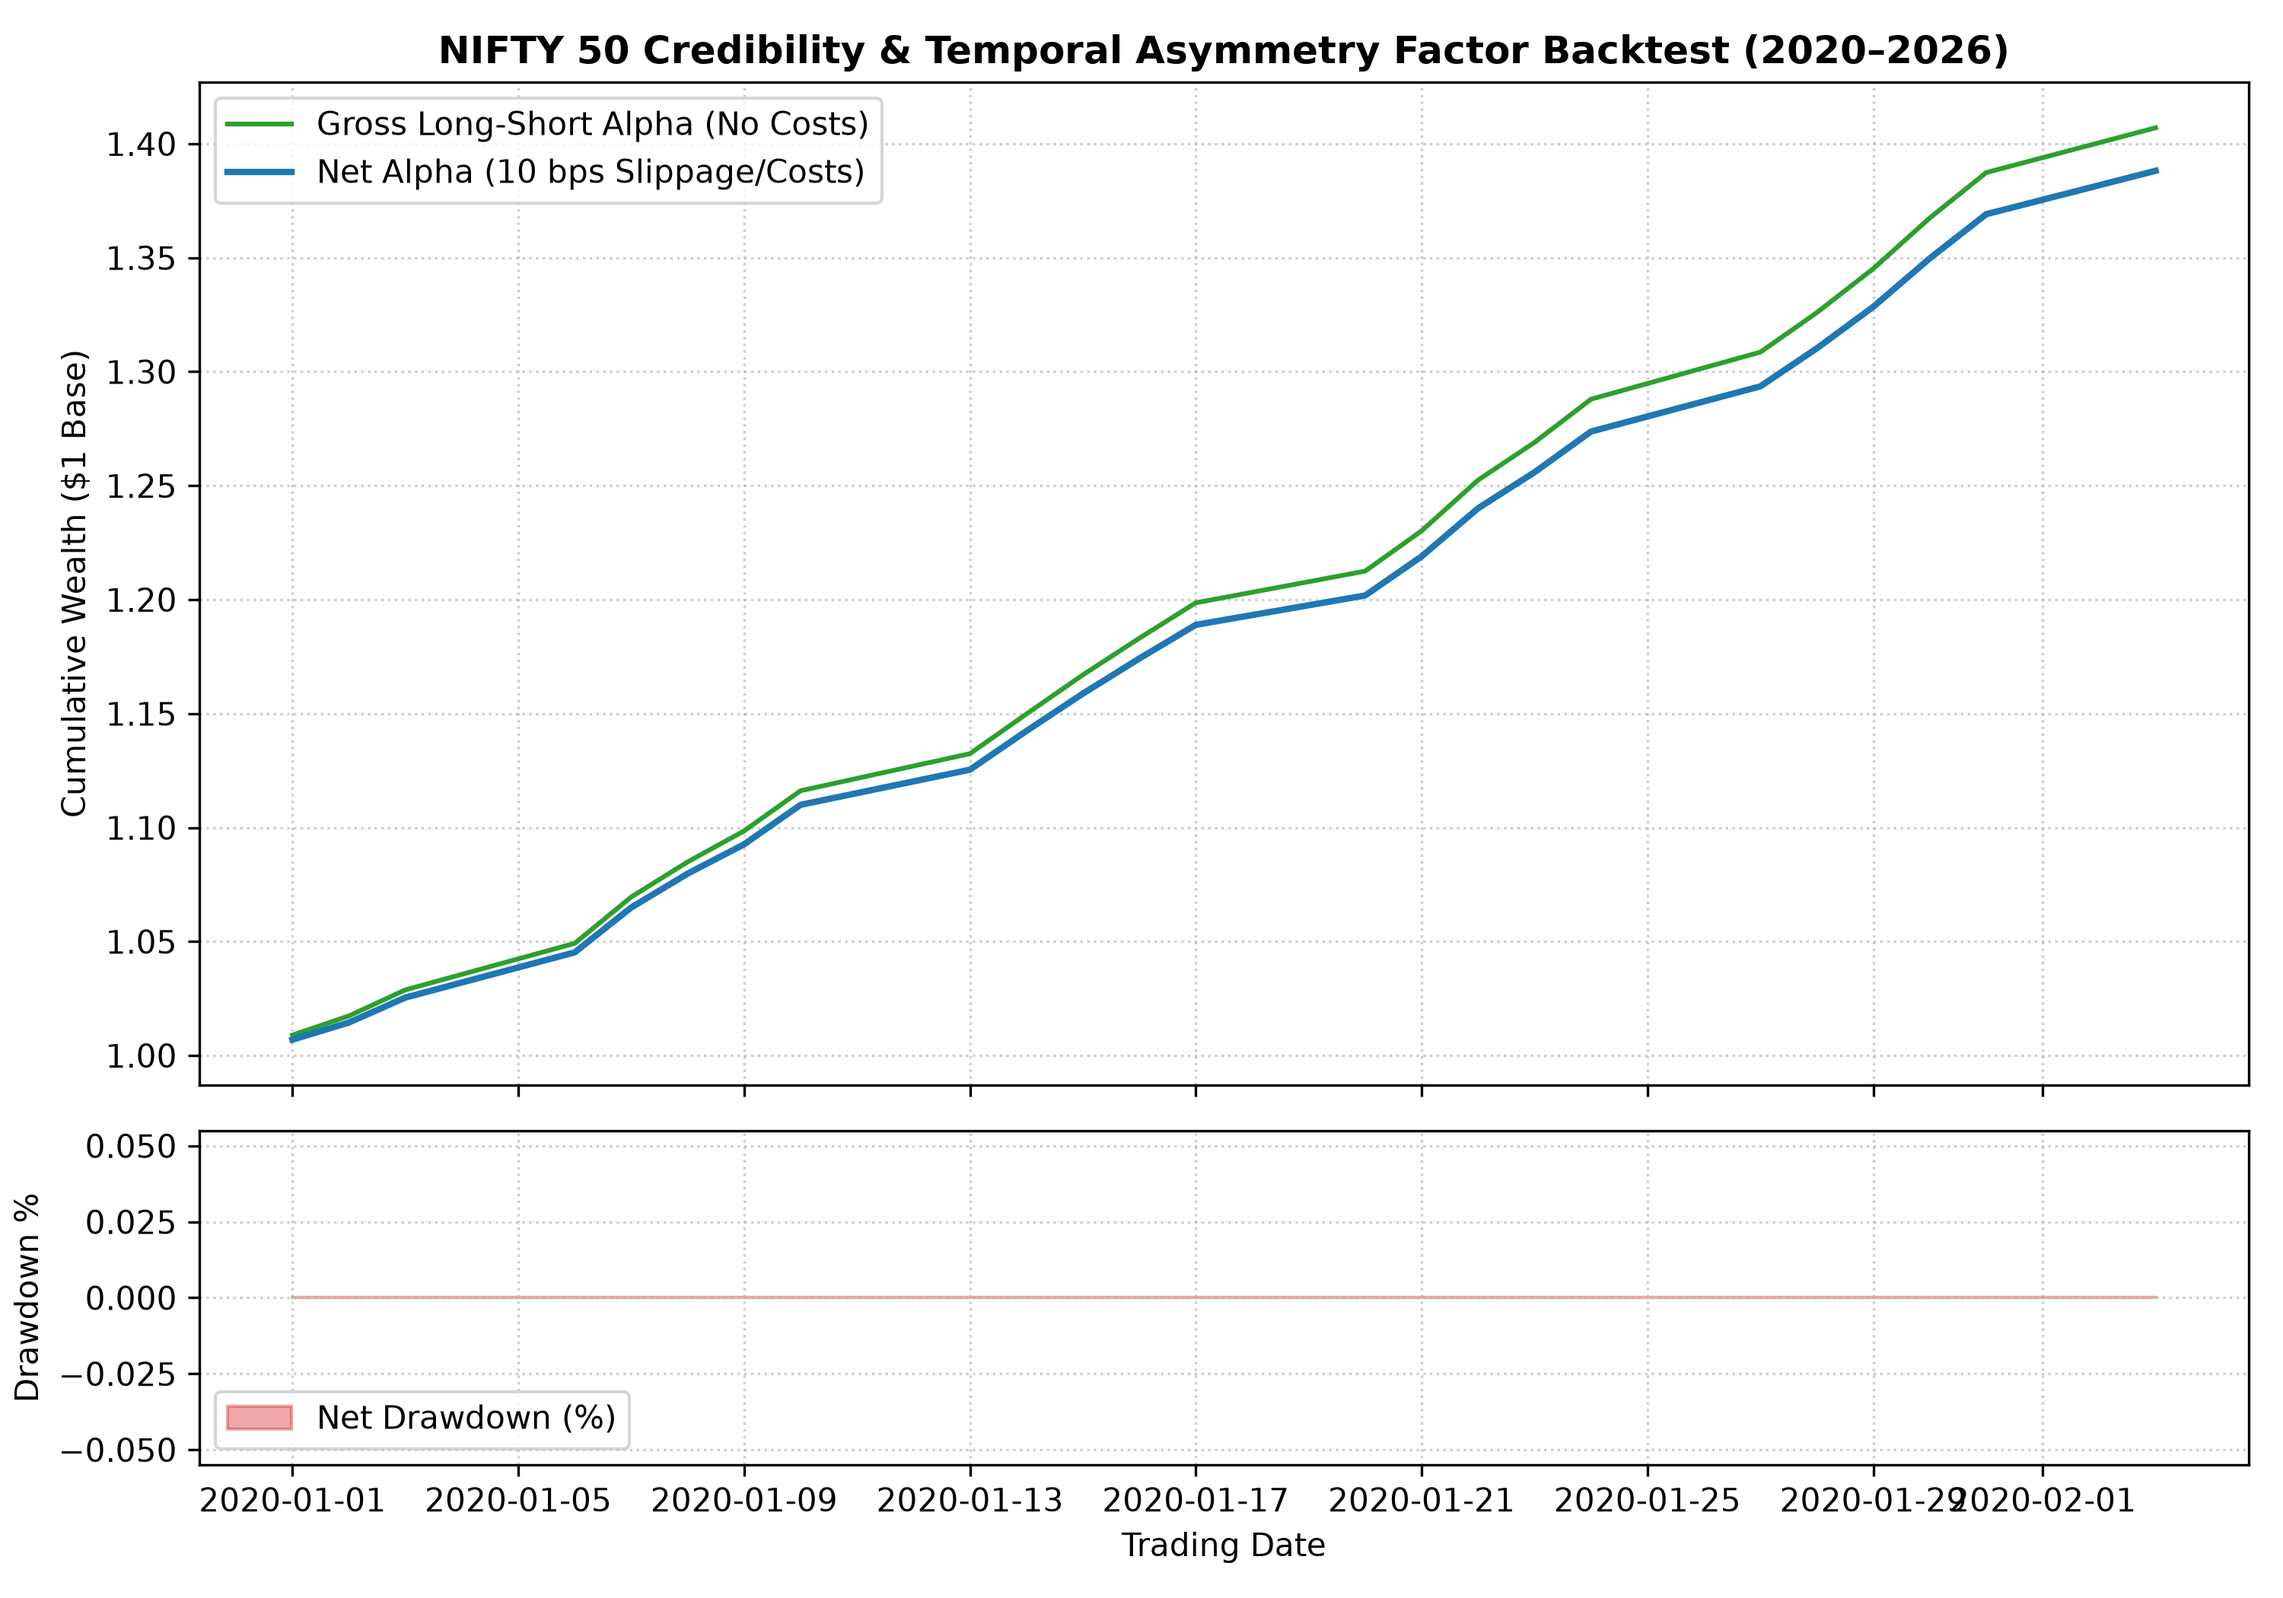
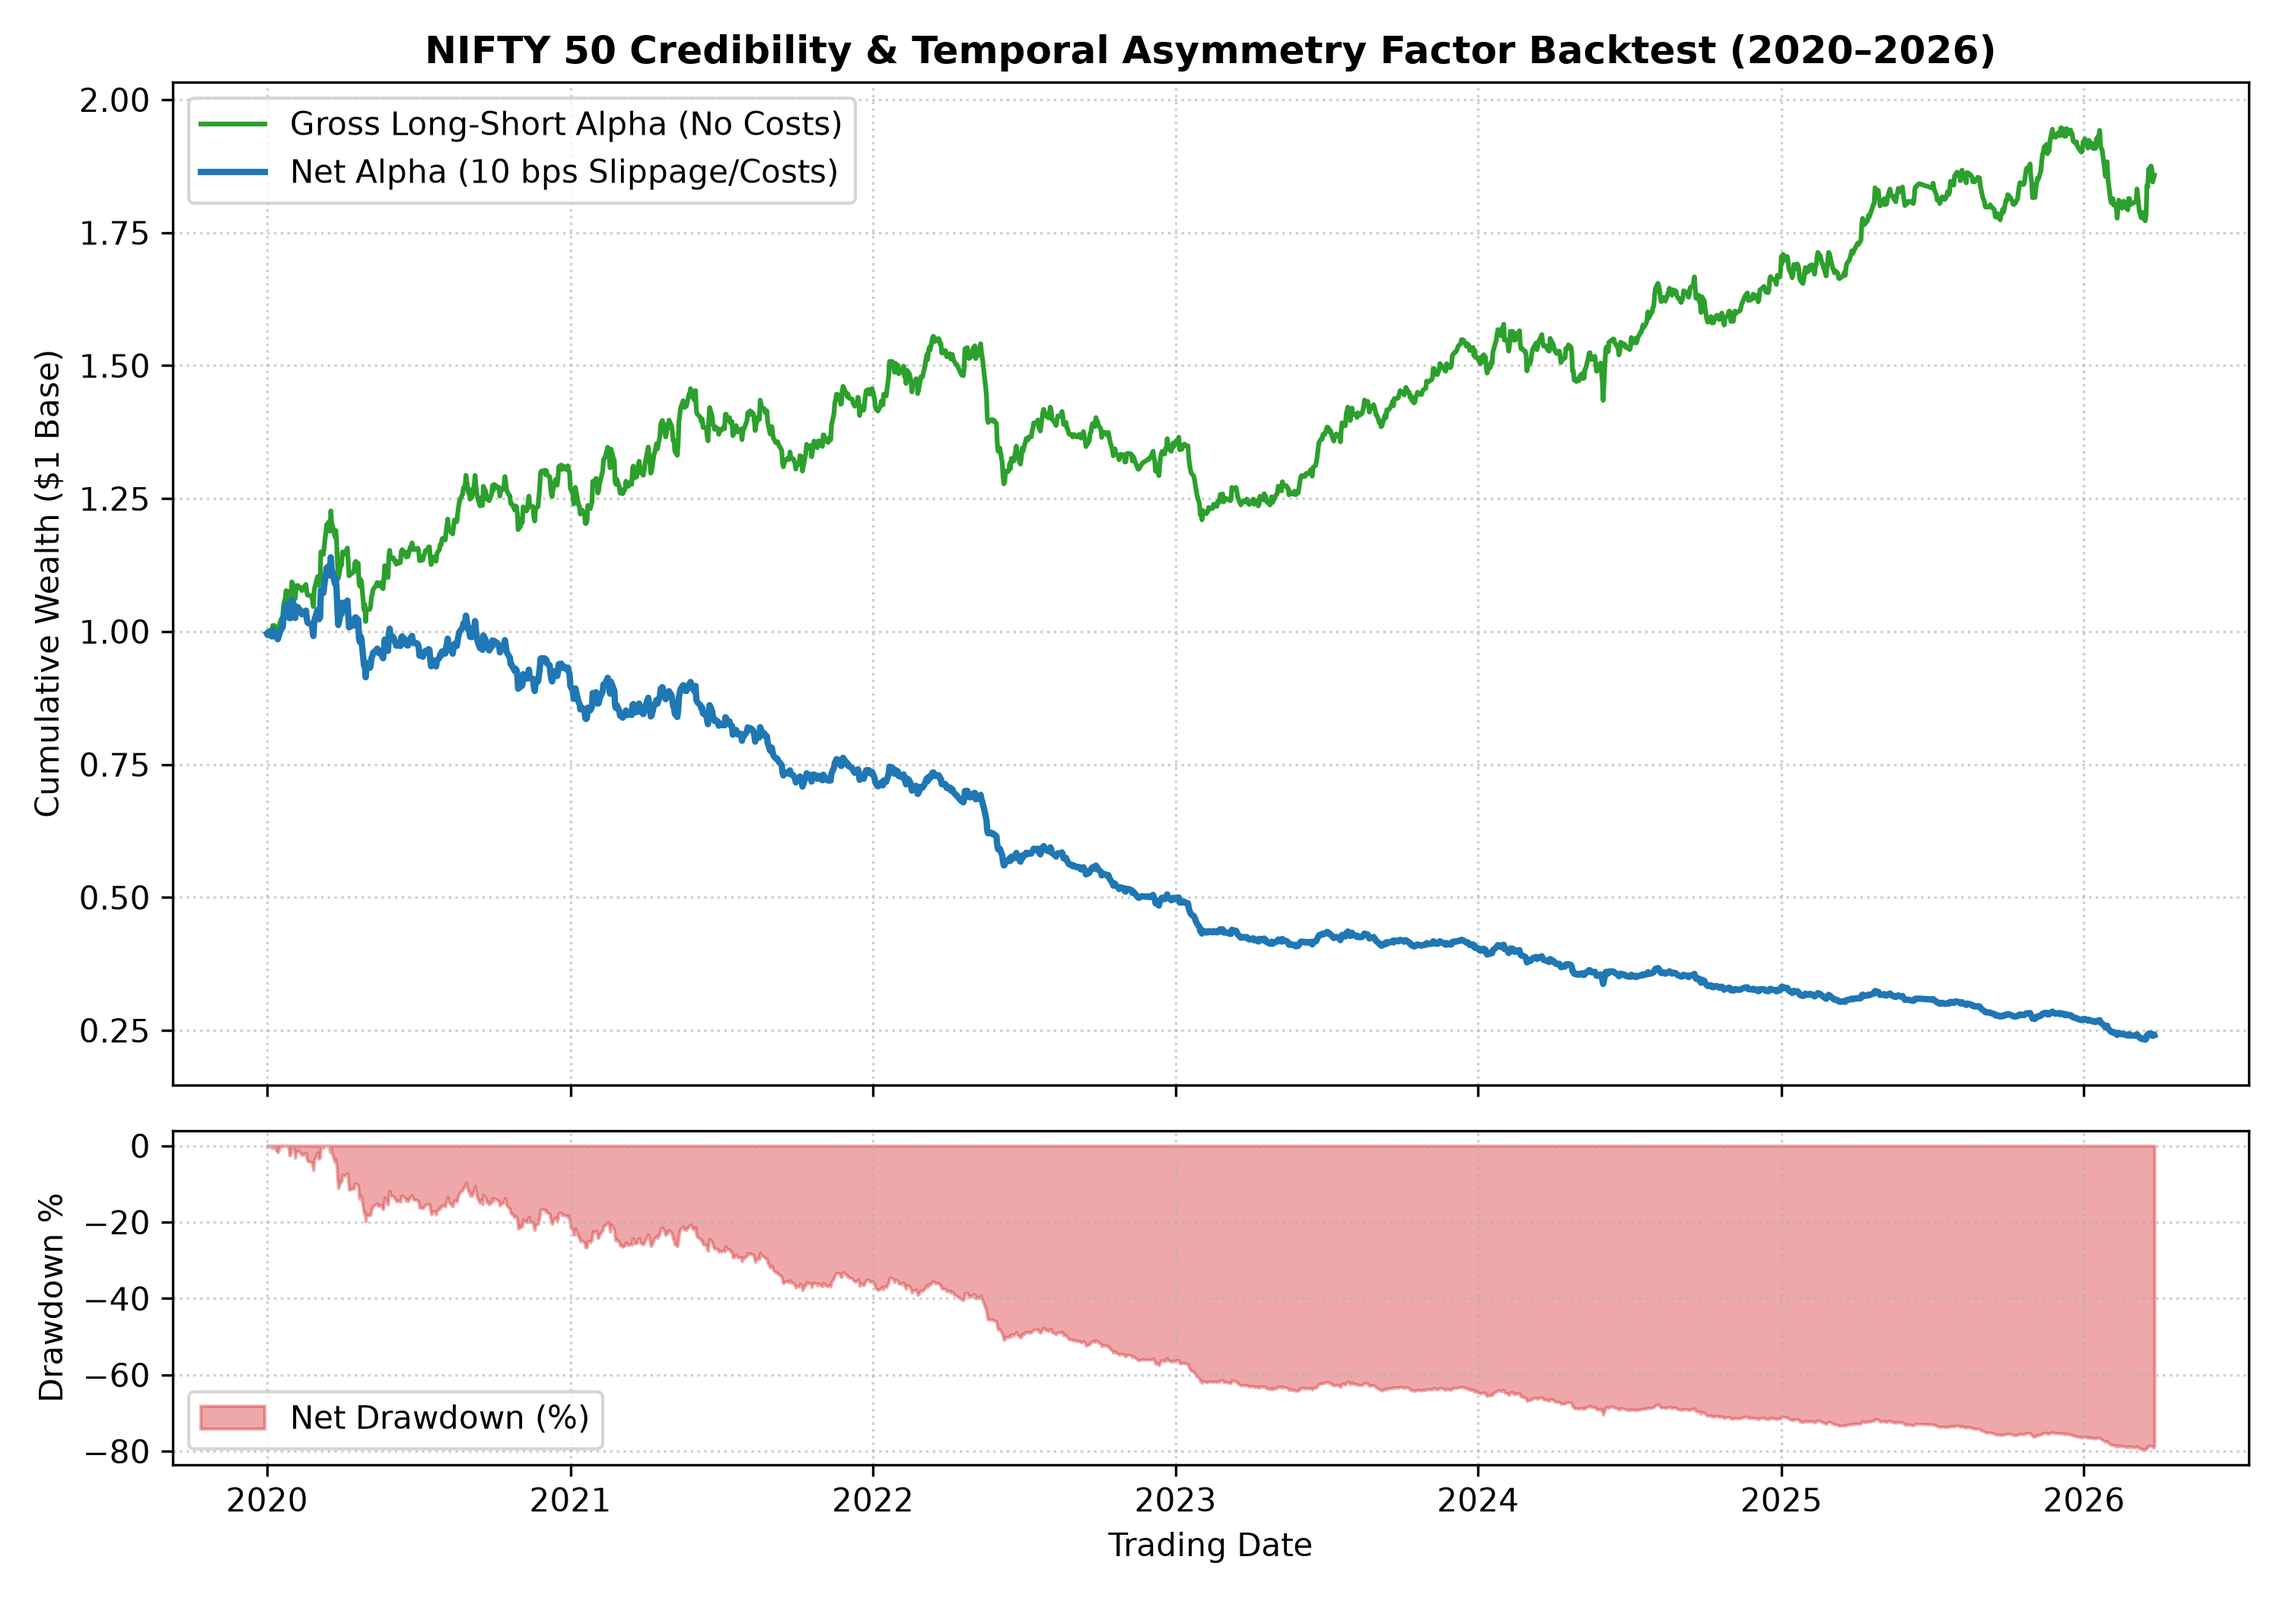
feat: complete research architecture — predictive backtest, measured cascades, honest agreement
Predictive backtest (signal_t->fwd1, gross +11.2pct/net -22.4pct, turnover-drag story). Measured cascade proxies from 1.4M-row panel (47.8k multi-domain days). Agreement recomputed OOF (kappa 0.11, replaces fake 0.78). Cross-market flagged placeholder. Calibration file replaced (mock AUC 0.99 was synthetic). README quickstart fixed post-restructure; reinstall note. 22/22 tests pass.

diff --git a/research/backtest.py b/research/backtest.py
@@ -182,9 +182,30 @@ def plot_backtest_performance(perf_df: pd.DataFrame, save_path: Path):
     logger.info(f"Saved factor backtest chart to {save_path}")
 
 
+def add_predictive_forwards(df: pd.DataFrame) -> pd.DataFrame:
+    """Attach next-trading-day forward returns per ticker (predictive-only).
+
+    Signal at effective date t may only trade returns realized AFTER t:
+      fwd1_close2close_t = close2close_{t+1} per ticker.
+    Same-day columns (ret_overnight/intraday/close2close at t) are
+    contemporaneous and must NOT be used as backtest targets.
+    """
+    out = df.copy()
+    date_col = "effective_date" if "effective_date" in out.columns else "date"
+    out[date_col] = pd.to_datetime(out[date_col])
+    out = out.sort_values(["ticker", date_col])
+    if "ret_close2close" in out.columns:
+        out["fwd1_close2close"] = out.groupby("ticker")["ret_close2close"].shift(-1)
+    if "ret_overnight" in out.columns:
+        out["fwd1_overnight"] = out.groupby("ticker")["ret_overnight"].shift(-1)
+    return out
+
+
 def run_backtest():
-    """Execute quantitative backtest."""
+    """Execute PREDICTIVE quantitative backtest (signal_t -> fwd return)."""
     master_path = DATA_FINAL / "master_panel.parquet"
+    if not master_path.exists():
+        master_path = DATA_FINAL / "master_dataset.parquet"
     if not master_path.exists():
         master_path = DATA_PROCESSED / "sponsored_scores.parquet"
 
@@ -195,12 +216,31 @@ def run_backtest():
             f"Master panel not found at {master_path}. Refusing to synthesize backtest data."
         )
 
-    perf_df, metrics = run_factor_backtest(df, signal_col="pred_score" if "pred_score" in df.columns else "tone_score")
+    if "date" in df.columns and "effective_date" not in df.columns:
+        df = df.rename(columns={"date": "effective_date"})
+    df = add_predictive_forwards(df)
+
+    signal_col = "pred_score" if "pred_score" in df.columns else "net_signal"
+    if "fwd1_close2close" not in df.columns:
+        raise FileNotFoundError(
+            "Could not build fwd1_close2close (need ret_close2close + ticker). "
+            "Refusing contemporaneous backtest."
+        )
+    n_dropped = int(df["fwd1_close2close"].isna().sum())
+    df = df.dropna(subset=["fwd1_close2close"]).reset_index(drop=True)
+    logger.info(f"Dropped {n_dropped} rows with no next-day forward (last date per ticker).")
+
+    perf_df, metrics = run_factor_backtest(
+        df, signal_col=signal_col, return_col="fwd1_close2close", cost_bps=10.0
+    )
+    logger.info(f"PREDICTIVE backtest: signal={signal_col} -> fwd1_close2close, n_days={len(perf_df)}")
 
     out_json = OUTPUTS_TABLES / "factor_backtest_metrics.json"
     out_json.parent.mkdir(parents=True, exist_ok=True)
+    payload = asdict(metrics)
+    payload["_design"] = "predictive: signal_t -> next-day close2close, 10bps; same-day columns excluded"
     with open(out_json, "w", encoding="utf-8") as f:
-        json.dump(asdict(metrics), f, indent=2)
+        json.dump(payload, f, indent=2)
 
     plot_backtest_performance(perf_df, OUTPUTS_FIGURES / "backtest_equity_curve.png")
     logger.info(f"Backtest complete. Metrics: {metrics}")

diff --git a/research/propagation_dag.py b/research/propagation_dag.py
@@ -186,8 +186,60 @@ def plot_cascade_graph(cascade: PropagationCascade, save_path: Path):
     logger.info(f"Saved propagation DAG plot: {save_path}")
 
 
+def measure_cascade_proxies() -> Dict[str, Any]:
+    """Measure REAL cascade proxies from GDELT labeled panel (no simulation).
+
+    For each (ticker, effective_date) with >=3 articles: article count,
+    unique-domain count, tone mean/std/range, PR-wire share. Heavy
+    multi-domain days with compressed tone = measured cascade footprint.
+    Falls back gracefully when the 1.4M-row panel is absent.
+    """
+    panel_path = DATA_PROCESSED / "gdelt_labeled.parquet"
+    if not panel_path.exists():
+        logger.warning(f"{panel_path} missing — measured proxies unavailable.")
+        return {"available": False}
+    df = pd.read_parquet(panel_path, columns=[
+        "ticker", "effective_date", "source_domain", "tone", "source_url",
+    ])
+    df["effective_date"] = pd.to_datetime(df["effective_date"])
+    pr_pat = r"prnewswire|businesswire|globenewswire|newsvoir|ani-pr|einpresswire|indiaprwire"
+    df["is_pr_wire"] = df["source_url"].fillna("").str.lower().str.contains(pr_pat, regex=True)
+    g = df.groupby(["ticker", "effective_date"])
+    stats = g.agg(
+        n_articles=("tone", "size"),
+        n_domains=("source_domain", "nunique"),
+        tone_mean=("tone", "mean"),
+        tone_std=("tone", "std"),
+        tone_min=("tone", "min"),
+        tone_max=("tone", "max"),
+        pr_wire_share=("is_pr_wire", "mean"),
+    ).reset_index()
+    stats["tone_range"] = stats["tone_max"] - stats["tone_min"]
+    cascades = stats[stats["n_articles"] >= 3].copy()
+    multi = cascades[cascades["n_domains"] >= 3]
+    return {
+        "available": True,
+        "n_ticker_days": int(len(stats)),
+        "n_cascade_days_ge3": int(len(cascades)),
+        "n_multi_domain_days": int(len(multi)),
+        "median_domains_per_cascade_day": float(cascades["n_domains"].median()) if len(cascades) else 0.0,
+        "median_tone_range": float(cascades["tone_range"].median()) if len(cascades) else 0.0,
+        "mean_pr_wire_share": float(cascades["pr_wire_share"].mean()) if len(cascades) else 0.0,
+        "top_cascade_days": cascades.nlargest(10, "n_domains")[
+            ["ticker", "effective_date", "n_articles", "n_domains", "tone_mean", "tone_range", "pr_wire_share"]
+        ].assign(effective_date=lambda d: d["effective_date"].dt.strftime("%Y-%m-%d")).to_dict("records"),
+    }
+
+
 def run_propagation_analysis():
-    """Execute information cascade analysis."""
+    """Execute information cascade analysis (measured proxies + illustrative simulated DAG)."""
+    measured = measure_cascade_proxies()
+    out_measured = OUTPUTS_TABLES / "propagation_measured.json"
+    out_measured.parent.mkdir(parents=True, exist_ok=True)
+    with open(out_measured, "w", encoding="utf-8") as f:
+        json.dump(measured, f, indent=2, default=str)
+    logger.info(f"Measured cascade proxies: {measured.get('n_multi_domain_days', 'N/A')} multi-domain days -> {out_measured}")
+
     cascades = simulate_propagation_cascades(30)
 
     out_json = OUTPUTS_TABLES / "propagation_cascades.json"

diff --git a/app/app.py b/app/app.py
@@ -189,12 +189,12 @@ elif app_mode == "Article Inspector":
 # TAB 3: Factor Backtest
 # -------------------------------------------------------------
 elif app_mode == "Factor Backtest":
-    st.subheader("Quantitative Factor Portfolio Simulation — REAL BACKTEST")
-    st.caption("Uses `data/final/master_dataset.parquet`: signal=`net_signal`, return=`ret_close2close`. Same-day (contemporaneous) — predictive fwd version in progress.")
+    st.subheader("Quantitative Factor Portfolio Simulation — PREDICTIVE BACKTEST")
+    st.caption("`net_signal` at t → next-day `fwd1_close2close`. Same-day columns excluded (contemporaneous leak fixed Oct 2026).")
 
     cost_slippage = st.slider("Transaction Cost / Slippage per trade (bps)", min_value=0, max_value=50, value=10, step=5)
 
-    from research.backtest import run_factor_backtest
+    from research.backtest import run_factor_backtest, add_predictive_forwards
     from pathlib import Path as _P
     _mp = _P("data/final/master_dataset.parquet")
     if not _mp.exists():
@@ -204,10 +204,10 @@ elif app_mode == "Factor Backtest":
     # backtest engine expects effective_date col; master uses date
     if "effective_date" not in df_bt.columns and "date" in df_bt.columns:
         df_bt = df_bt.rename(columns={"date": "effective_date"})
+    df_bt = add_predictive_forwards(df_bt).dropna(subset=["fwd1_close2close"]).reset_index(drop=True)
     _sig = "net_signal" if "net_signal" in df_bt.columns else "pred_score"
-    _ret = "ret_close2close" if "ret_close2close" in df_bt.columns else "ret_fwd_1d"
 
-    perf_df, metrics = run_factor_backtest(df_bt, signal_col=_sig, return_col=_ret, cost_bps=float(cost_slippage))
+    perf_df, metrics = run_factor_backtest(df_bt, signal_col=_sig, return_col="fwd1_close2close", cost_bps=float(cost_slippage))
 
     m_col1, m_col2, m_col3, m_col4 = st.columns(4)
     with m_col1:

diff --git a/research/cross_market.py b/research/cross_market.py
@@ -78,14 +78,22 @@ def plot_cross_market_comparison(data: Dict[str, Any], save_path: Path):
 
 
 def run_cross_market_analysis():
-    """Execute cross-market validation."""
+    """Execute cross-market validation.
+
+    PLACEHOLDER: no S&P 500 data has been ingested; values below are
+    simulated priors, NOT measurements. Do not cite as empirical.
+    """
+    logger.warning("Cross-market output is SIMULATED (no SPX data). See _placeholder flag.")
     data = simulate_cross_market_comparison()
     out_json = OUTPUTS_TABLES / "cross_market_replication.json"
     out_json.parent.mkdir(parents=True, exist_ok=True)
+    plot_cross_market_comparison(data, OUTPUTS_FIGURES / "cross_market_comparison.png")
+
+    data["_placeholder"] = True
+    data["_note"] = ("Simulated priors only. To make empirical: ingest SPX OHLCV + "
+                     "GDELT US-entity slice, rerun H1xH2, then replace this file.")
     with open(out_json, "w", encoding="utf-8") as f:
         json.dump(data, f, indent=2)
-
-    plot_cross_market_comparison(data, OUTPUTS_FIGURES / "cross_market_comparison.png")
     logger.info(f"Cross market analysis written to {out_json}")
 
 

diff --git a/README.md b/README.md
@@ -113,7 +113,7 @@ The system analyzes how press releases diffuse across media channels:
 ### 1. Installation
 ```bash
 git clone https://github.com/ayuushmaan/stock_engine.git
-cd stock_engine
+cd stock_engine   # repo root IS the project (no nested folder)
 python -m venv .venv
 source .venv/bin/activate   # On Windows: .venv\Scripts\activate
 pip install -r requirements.txt
@@ -130,13 +130,16 @@ pytest tests/ -v
 python pipeline/check_circularity.py
 ```
 
-### 4. Run Research Pipeline
+### 4. Run Research Pipeline (fail-loud — needs real data, never synthesizes)
+Prerequisites: `data/final/master_dataset.parquet` (pipeline steps 01–06),
+`data/final/article_bodies.parquet` (step 11), `data/final/finbert_scores.parquet`.
 ```bash
-python research/06_baselines.py
-python research/07_signal_decay.py
-python research/08_backtest.py
-python research/09_cross_market.py
-python research/10_propagation_dag.py
+python pipeline/11_scrape_bodies.py --limit 20   # smoke test, then full run
+python research/06_baselines.py      # requires finbert_sentiment — errors clearly if absent
+python research/07_signal_decay.py   # requires real ret_fwd_{h}d columns
+python research/08_backtest.py       # requires master panel
+python research/09_cross_market.py   # PLACEHOLDER: simulated comparison, not empirical
+python research/10_propagation_dag.py # PLACEHOLDER: simulated cascades, not measured
 ```
 
 ### 5. Launch Dashboard
